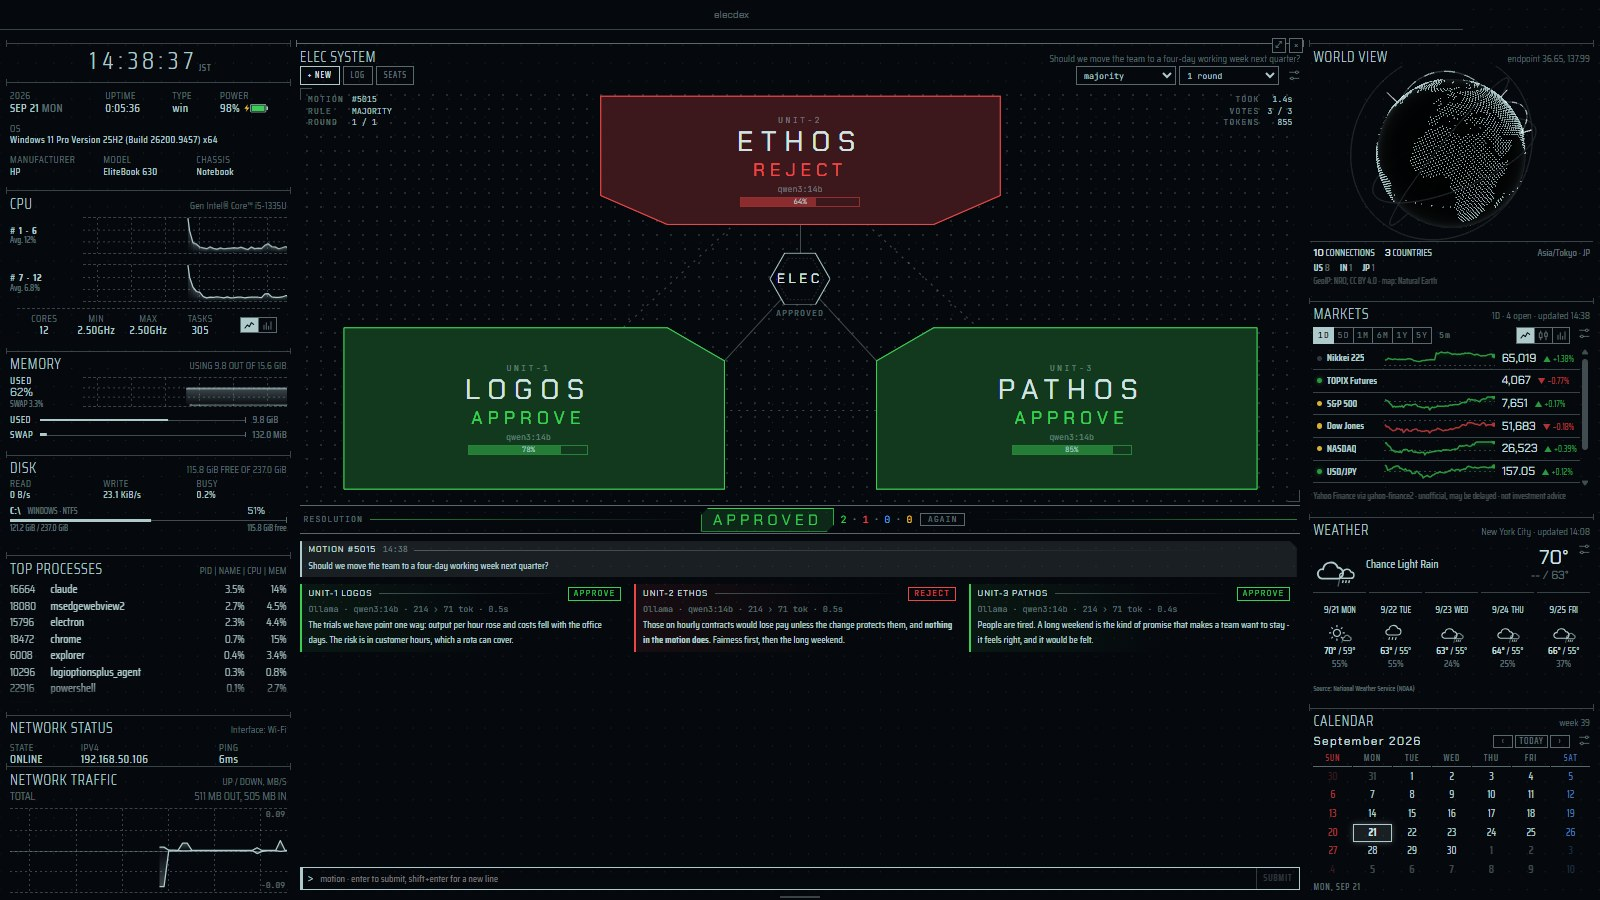
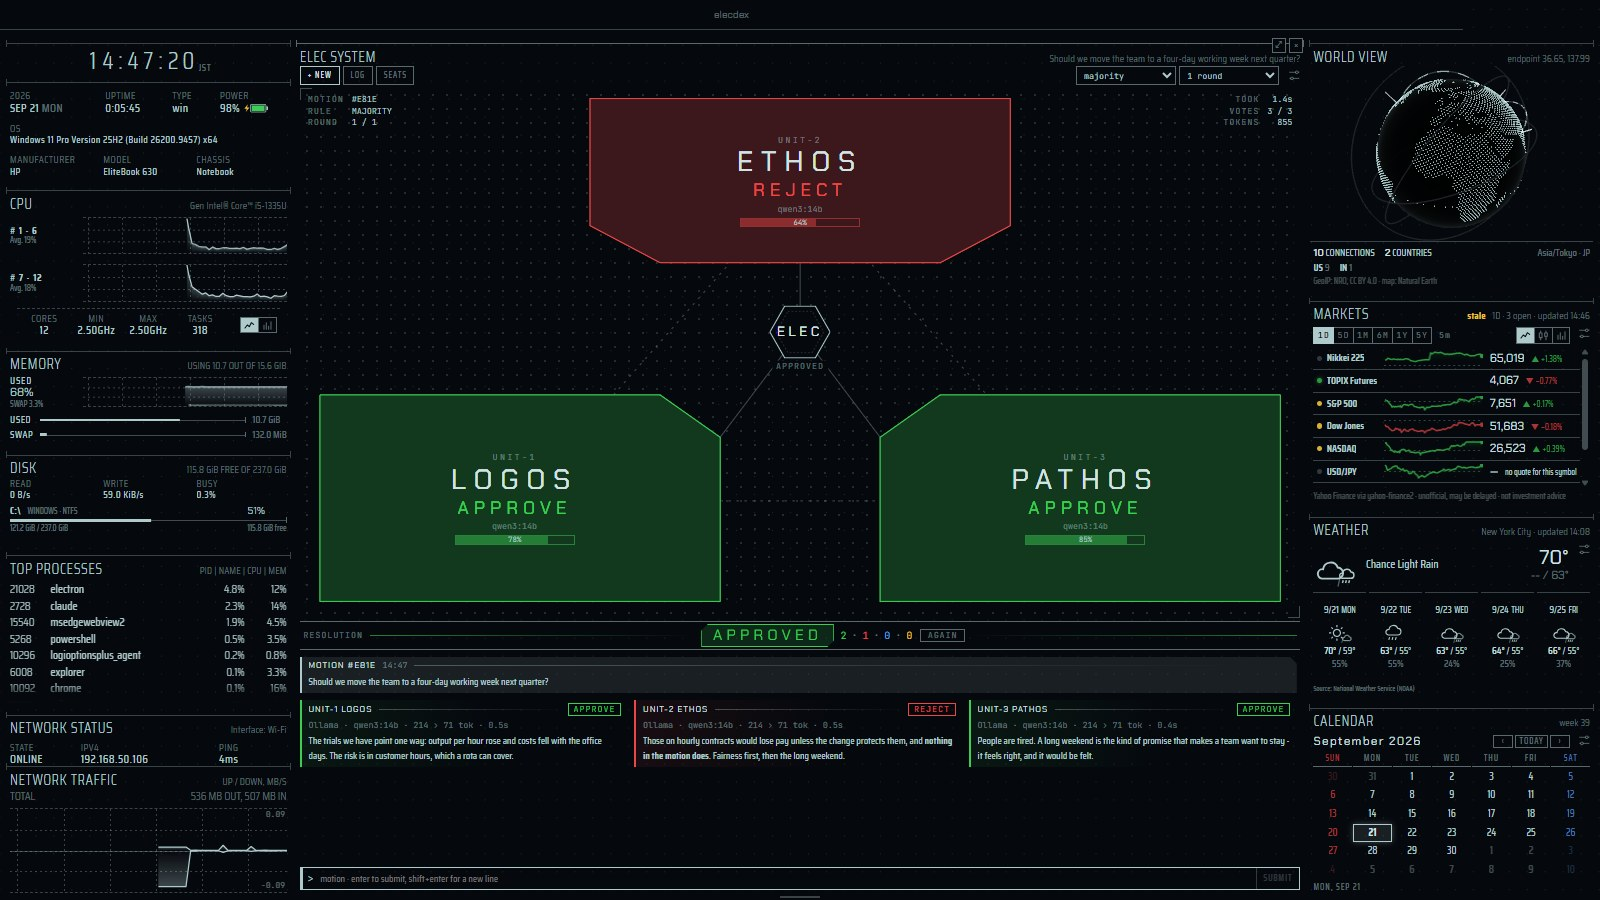
fix(elec): the council takes about two thirds of the pane / 評議会の図はペインの約 2/3 を使う
The stage grows to 64% of the pane (at most 48rem) and gives way before the statements below fall under 7rem, which left too much empty room under a tall pane. / ステージはペインの 64%（最大 48rem）まで伸び、下の声明が 7rem を切る前に縮む。縦に長いペインで下が空きすぎていた。

diff --git a/src/renderer/widgets/elec/Stage.svelte b/src/renderer/widgets/elec/Stage.svelte
@@ -150,10 +150,11 @@ const PLATES: Record<UnitIndex, { points: string; box: [number, number, number, 
  */
 .stage {
   position: relative;
-  flex: 0 0 auto;
+  /* Gives way before the record below is squeezed under its least (see .record). */
+  flex: 0 1 auto;
   /* No taller than the board can use: a narrow pane's board is lower (see .board). */
-  height: min(clamp(10rem, 50%, 34rem), 64cqw);
-  min-height: 0;
+  height: min(clamp(10rem, 64%, 48rem), 64cqw);
+  min-height: 10rem;
   container: stage / size;
   background: radial-gradient(
       circle,

diff --git a/src/renderer/widgets/elec/ElecWidget.svelte b/src/renderer/widgets/elec/ElecWidget.svelte
@@ -927,7 +927,8 @@ select:focus {
 
 .record {
   flex: 1;
-  min-height: 0;
+  /* The statements keep a few lines in sight however tall the stage wants to be. */
+  min-height: 7rem;
   display: flex;
   flex-direction: column;
   gap: var(--space-2);
